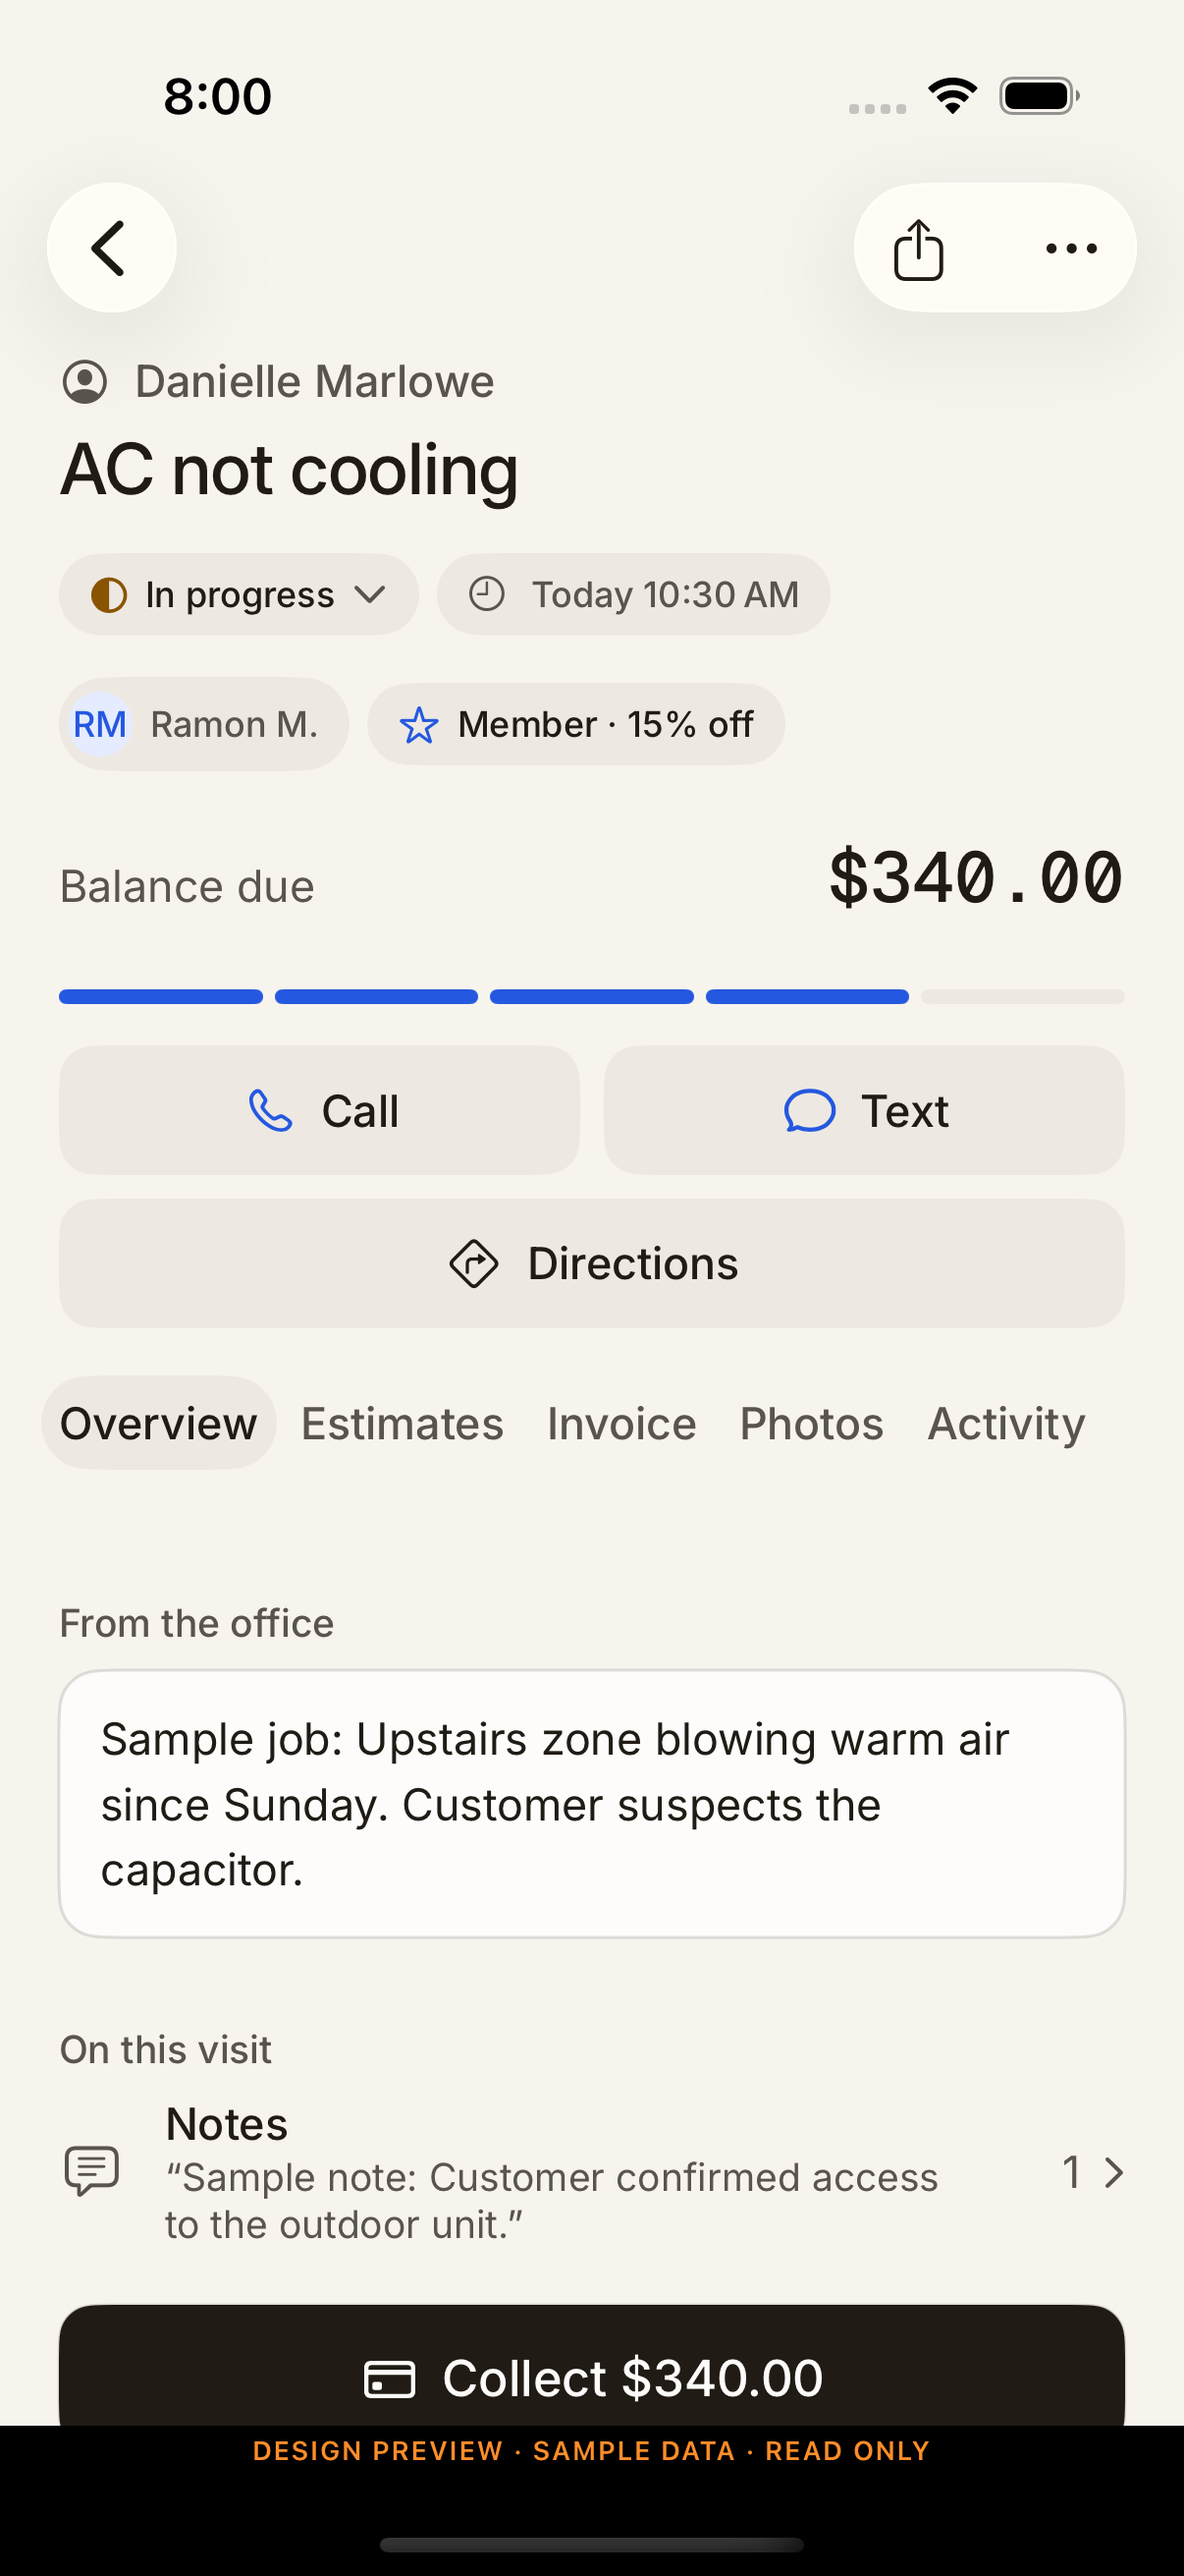
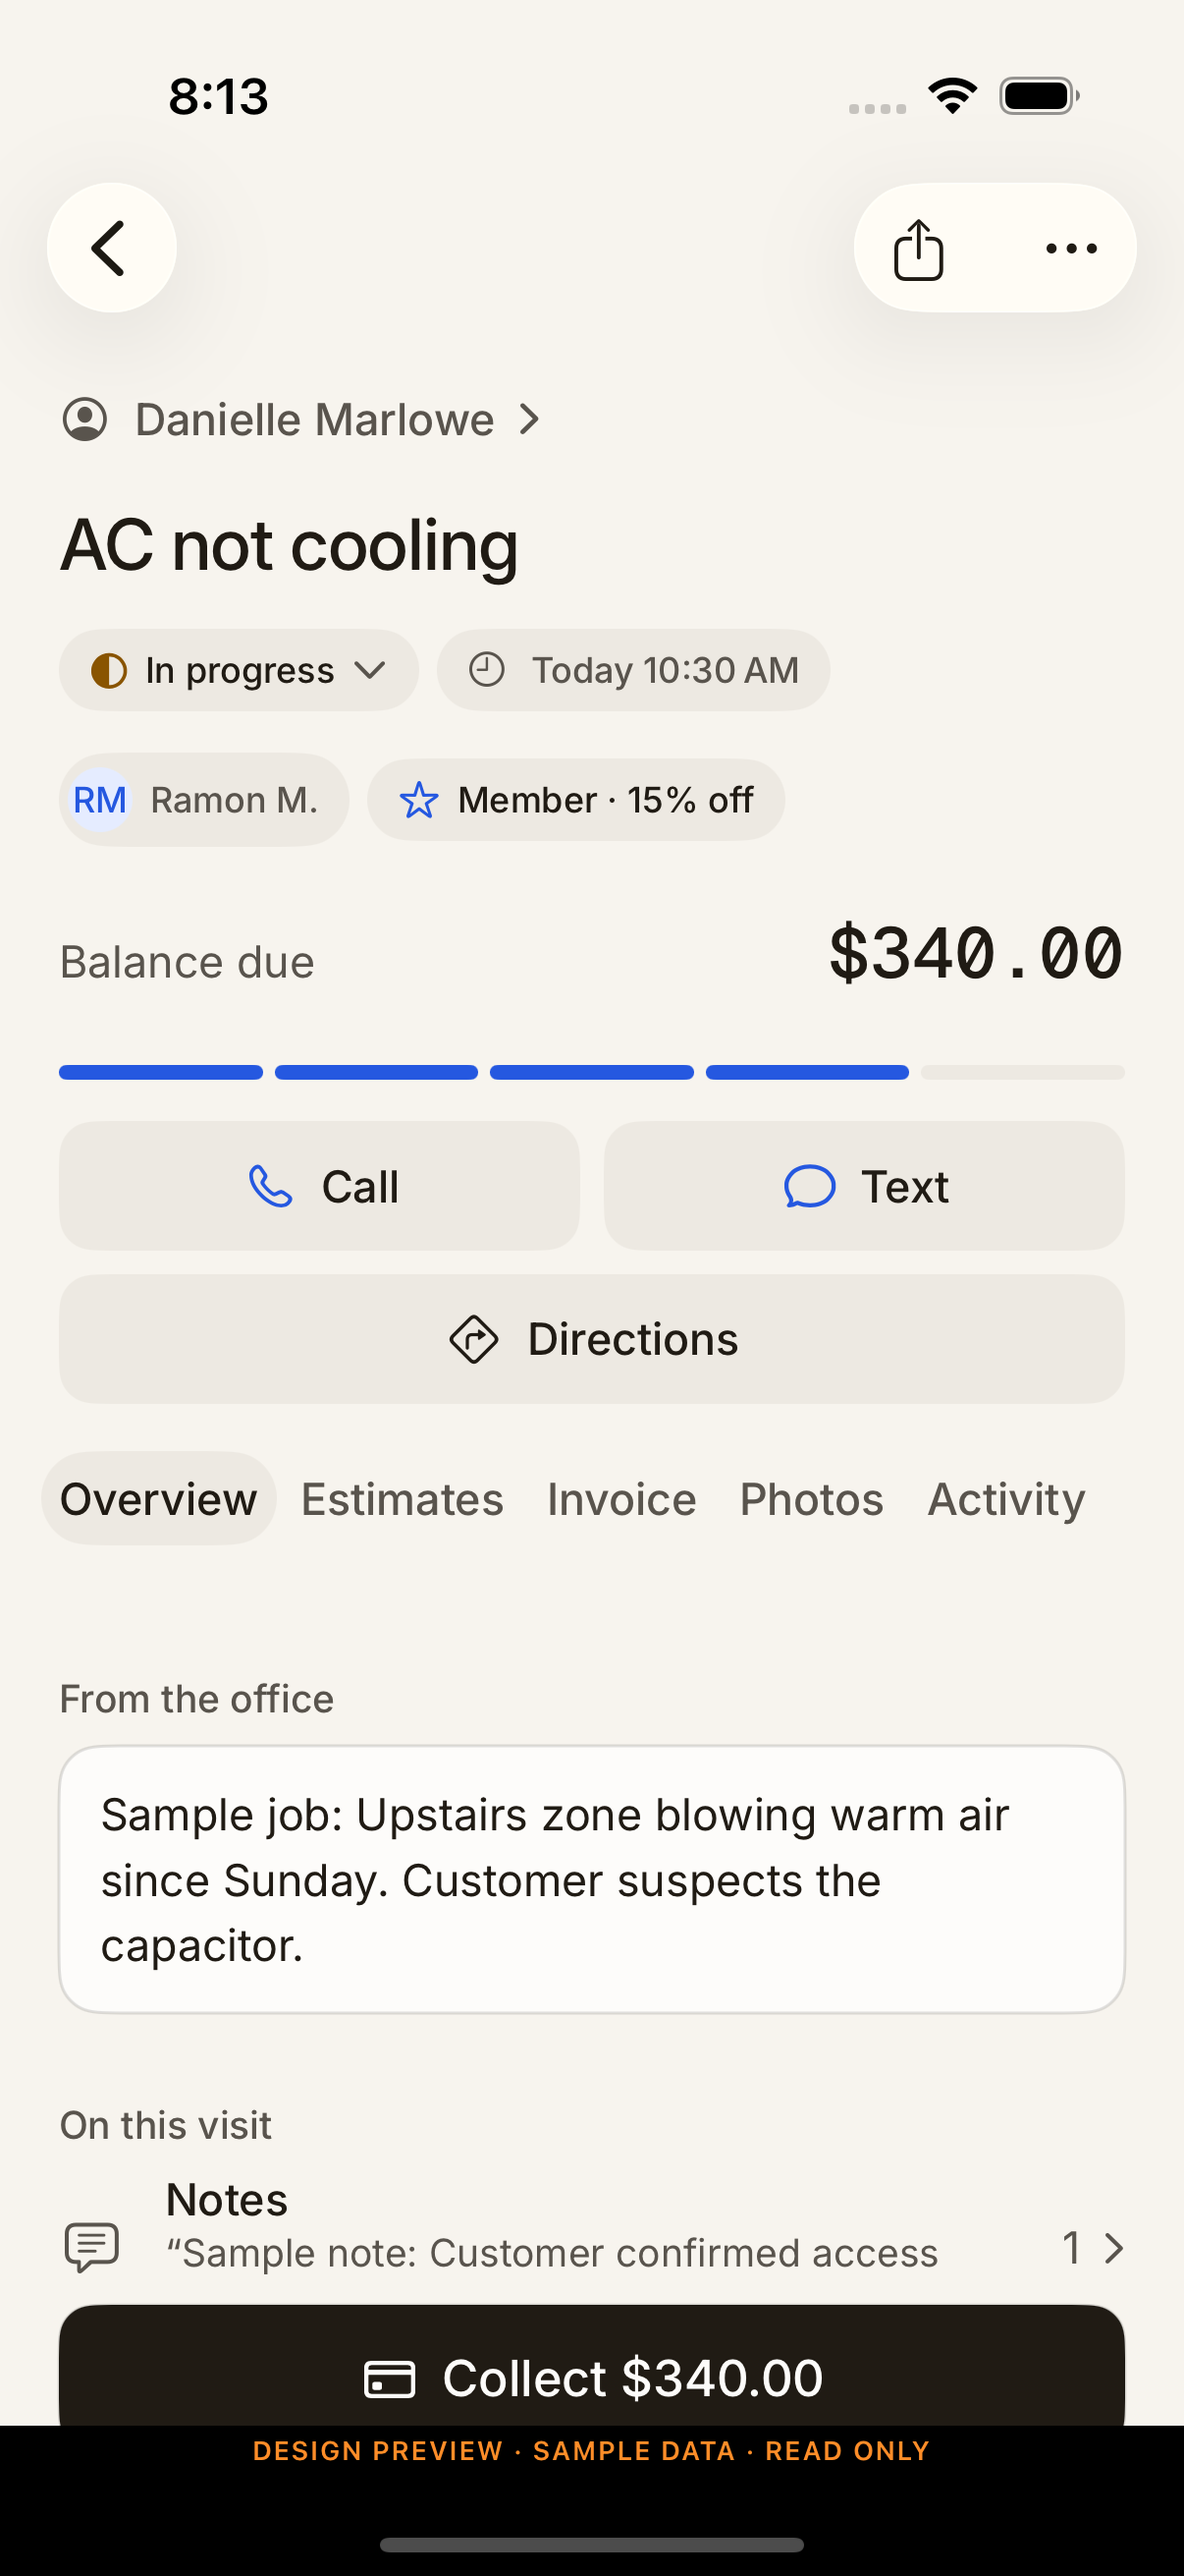
Make the job customer link clear and easy to tap

diff --git a/Thorbis/Sources/PaperJobDetailView.swift b/Thorbis/Sources/PaperJobDetailView.swift
@@ -414,11 +414,19 @@ struct JobDetailView: View {
             if let customer = store.customers.first(where: { $0.id == job.customerId }),
                session.can("customer.view", feature: "core_crm") {
                 NavigationLink(value: customer) {
-                    Label(customer.name, systemImage: "person.crop.circle")
-                        .font(Theme.font(15, weight: .medium))
-                        .foregroundStyle(Theme.muted)
-                        .fixedSize(horizontal: false, vertical: true)
+                    HStack(alignment: .center, spacing: 6) {
+                        Label(customer.name, systemImage: "person.crop.circle")
+                            .fixedSize(horizontal: false, vertical: true)
+                        Image(systemName: "chevron.right")
+                            .font(.system(size: 12, weight: .semibold))
+                            .accessibilityHidden(true)
+                    }
+                    .font(Theme.font(15, weight: .medium))
+                    .foregroundStyle(Theme.muted)
+                    .frame(minHeight: 44, alignment: .leading)
+                    .contentShape(Rectangle())
                 }
+                .accessibilityIdentifier("job-customer-link")
                 .accessibilityHint("Opens the customer")
             } else {
                 Text(store.customerName(job.customerId))

diff --git a/ThorbisUITests/JobOverviewUITests.swift b/ThorbisUITests/JobOverviewUITests.swift
@@ -2,6 +2,17 @@ import XCTest
 
 @MainActor
 final class JobOverviewUITests: XCTestCase {
+    func testCustomerLinkIsComfortableAndOpensCustomerProfile() {
+        let app = preview("job", working: true)
+        let customer = app.buttons["job-customer-link"]
+        XCTAssertTrue(customer.waitForExistence(timeout: 20))
+        XCTAssertGreaterThanOrEqual(customer.frame.height, 44)
+        XCTAssertTrue(customer.label.contains("Danielle Marlowe"))
+        customer.tap()
+        XCTAssertTrue(app.buttons["Customer actions"].waitForExistence(timeout: 10))
+        XCTAssertTrue(app.buttons["Records"].exists)
+    }
+
     func testJobOverviewKeepsVisitActionsBeforeCustomerDetails() {
         let app = preview("job", working: true)
         let visit = app.staticTexts["On this visit"]

diff --git a/docs/superpowers/execution/2026-10-29-job-glance-clarity.md b/docs/superpowers/execution/2026-10-29-job-glance-clarity.md
@@ -16,3 +16,5 @@ The primary job step, status, schedule, customer link, Call, Text, Directions, a
 - Screens were inspected in the simulator for overview and Estimates. Full VoiceOver, largest Dynamic Type, iPad, real-device performance and offline journey verification were not performed; this is not full-app or Paper parity certification.
 
 No TestFlight upload or independent review has occurred for this change. The separate activity-selection/offline branch is not included.
+
+Follow-up review improved customer-link discoverability and tap size: the customer name has a chevron, wraps rather than being truncated, and its hit target is at least 44 points. The test tapped it and verified the customer profile opened. The targeted regression was red before the change (`/private/tmp/thorbis-job-customer-link-red.log`; Xcode stopped during cleanup after recording failure), then the navigation, long-job-title, Collect/Wrap-up, location-choice and release-note suite passed **13/13** in `/private/tmp/thorbis-job-customer-link-green.xcresult`. The updated after-overview image was captured after Collect became tappable. Long customer names, VoiceOver and physical-device behavior remain unverified.
